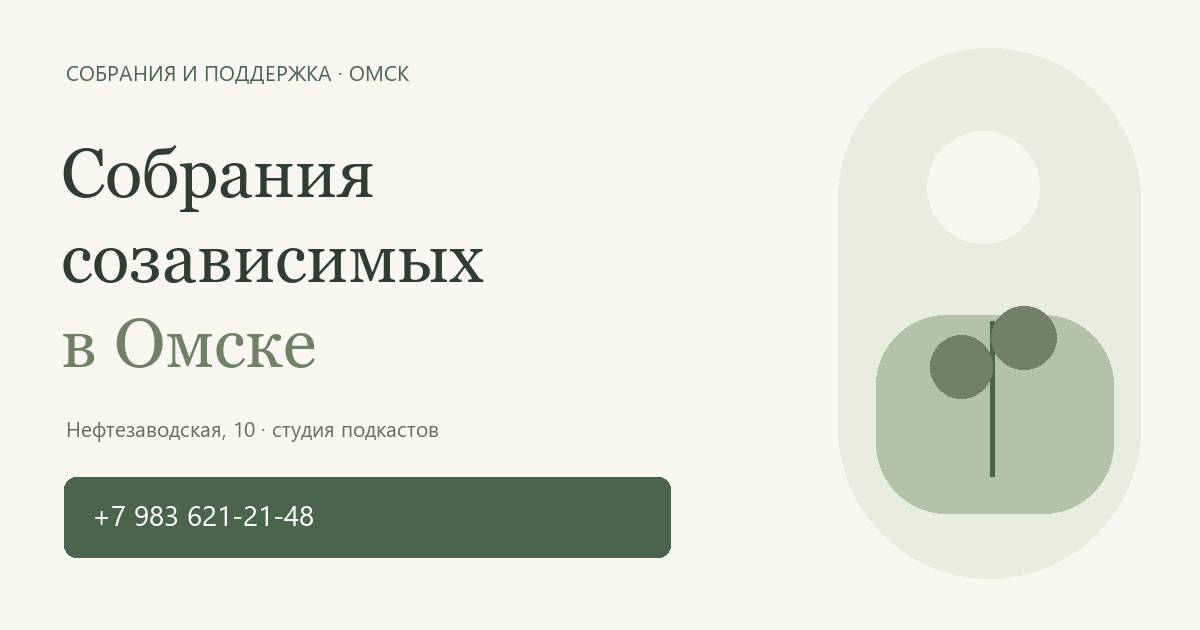
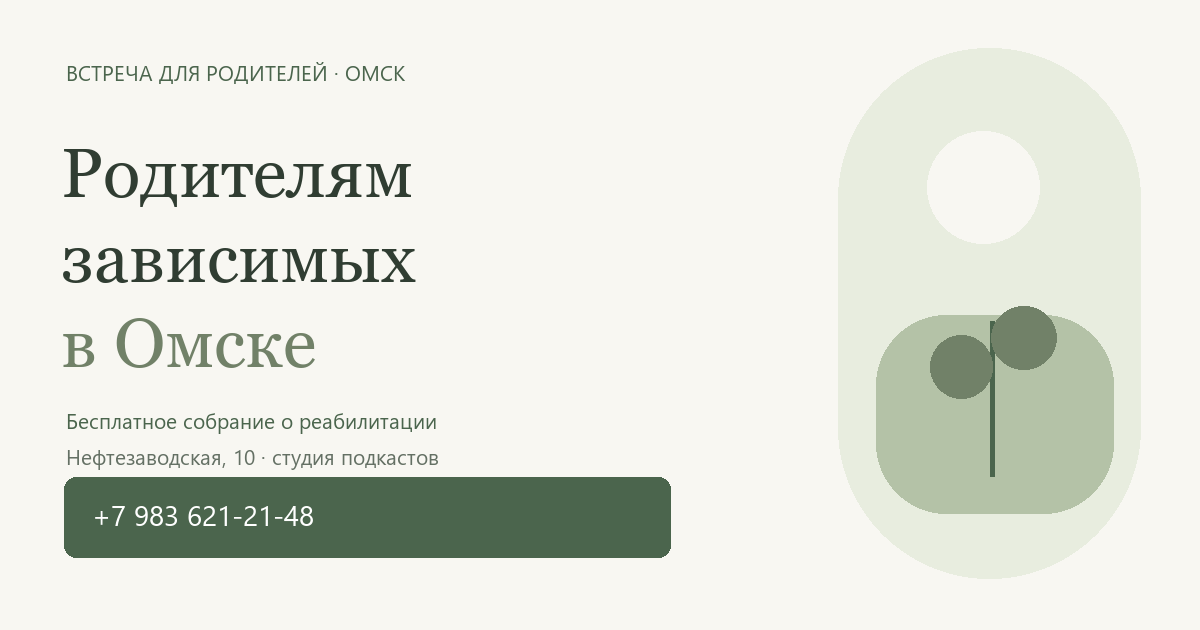
Align landing content and SEO with parents rehabilitation invitation

diff --git a/src/index.html b/src/index.html
@@ -4,23 +4,23 @@
   <meta charset="utf-8">
   <meta name="viewport" content="width=device-width, initial-scale=1">
   <meta name="theme-color" content="#f8f7f2">
-  <meta name="description" content="Собрания созависимых в Омске: ул. Нефтезаводская, 10, студия подкастов. Узнайте о группе и времени встречи по телефону +7 983 621-21-48.">
+  <meta name="description" content="Бесплатное собрание для родителей зависимых в Омске: вопросы реабилитации и поддержки близких. Нефтезаводская, 10. Дата и запись: +7 983 621-21-48.">
   <meta name="robots" content="index, follow">
   <meta name="referrer" content="strict-origin-when-cross-origin">
-  <title>Собрания созависимых в Омске — встречи и поддержка</title>
+  <title>Родителям зависимых в Омске — собрание о реабилитации</title>
   <link rel="canonical" href="%%SITE_URL%%">
   <link rel="icon" href="assets/favicon.svg" type="image/svg+xml">
   <link rel="stylesheet" href="assets/styles.css">
   <meta property="og:type" content="website">
   <meta property="og:locale" content="ru_RU">
-  <meta property="og:site_name" content="Созависимые · Омск">
-  <meta property="og:title" content="Собрания созависимых в Омске">
-  <meta property="og:description" content="Начните с одного разговора. Нефтезаводская, 10, студия подкастов. Связь: +7 983 621-21-48.">
+  <meta property="og:site_name" content="Поддержка близких · Омск">
+  <meta property="og:title" content="Бесплатное собрание для родителей зависимых в Омске">
+  <meta property="og:description" content="Приглашение Евгения Билинзона: выбор центра, качество реабилитации и вопросы родителей. Нефтезаводская, 10. Дата и запись: +7 983 621-21-48.">
   <meta property="og:url" content="%%SITE_URL%%">
   <meta property="og:image" content="%%SITE_URL%%assets/social.png">
   <meta property="og:image:width" content="1200">
   <meta property="og:image:height" content="630">
-  <meta property="og:image:alt" content="Собрания созависимых в Омске. Нефтезаводская, 10. Телефон +7 983 621-21-48.">
+  <meta property="og:image:alt" content="Собрание для родителей зависимых в Омске. Нефтезаводская, 10. Телефон +7 983 621-21-48.">
   <meta name="twitter:card" content="summary_large_image">
   %%STRUCTURED_DATA%%
 </head>
@@ -28,9 +28,9 @@
   <a class="skip-link" href="#main">Перейти к содержанию</a>
   <header class="header">
     <div class="container header-inner">
-      <a class="brand" href="#home" aria-label="Созависимые в Омске — начало страницы">
+      <a class="brand" href="#home" aria-label="Поддержка близких в Омске — начало страницы">
         <svg viewBox="0 0 40 40" width="40" height="40" fill="none" aria-hidden="true"><rect width="40" height="40" rx="14" fill="#e8eddf"/><path d="M20 30V17m0 7c-9 0-11-6-10-11 6 0 10 4 10 11Zm0-5c0-7 4-10 10-10 1 6-3 10-10 10Z" stroke="#4b654d" stroke-width="1.7" stroke-linecap="round" stroke-linejoin="round"/></svg>
-        <span>Созависимые<span class="brand-city">Омск · собрания и поддержка</span></span>
+        <span>Поддержка близких<span class="brand-city">Омск · встреча для родителей</span></span>
       </a>
       <nav aria-label="Основная навигация"><a href="#about">О встречах</a><a href="#invitation">Приглашение</a><a href="#contacts">Как прийти</a></nav>
       <a class="header-phone" href="tel:+79836212148"><svg class="icon" aria-hidden="true"><use href="#phone-icon"/></svg><span>+7 983 621-21-48</span></a>
@@ -39,29 +39,31 @@
   <main id="main">
     <section class="hero container" id="home" aria-labelledby="hero-title">
       <div class="hero-copy">
-        <p class="eyebrow"><span class="dot"></span> Группа поддержки · Омск</p>
-        <h1 id="hero-title">Собрания<br>созависимых<br><em>в Омске</em></h1>
-        <p class="hero-lead">Когда в отношениях трудно,<br class="desktop-break"> можно начать с поддержки.</p>
-        <p class="hero-description">Если вы ищете собрания созависимых в Омске, приглашаем узнать о встречах. Один звонок поможет уточнить формат и сделать первый шаг.</p>
-        <div class="hero-actions"><a class="button" href="tel:+79836212148"><svg class="icon" aria-hidden="true"><use href="#phone-icon"/></svg>Узнать о ближайшей встрече</a><a class="text-link" href="#about">Познакомиться с группой <span aria-hidden="true">↗</span></a></div>
+        <p class="eyebrow"><span class="dot"></span> Бесплатное собрание · Омск</p>
+        <h1 id="hero-title">Собрание для<br>родителей зависимых<br><em>в Омске</em></h1>
+        <p class="hero-lead">Близкий проходит реабилитацию?<br class="desktop-break"> Приходите со своими вопросами.</p>
+        <p class="hero-description">Евгений Билинзон приглашает родителей, чьи дети находятся в реабилитационном центре или только готовятся к этому шагу. Встреча о выборе центра, качестве реабилитации и вопросах семьи.</p>
+        <div class="hero-actions"><a class="button" href="tel:+79836212148"><svg class="icon" aria-hidden="true"><use href="#phone-icon"/></svg>Узнать дату и записаться</a><a class="text-link" href="#about">О чём будет встреча <span aria-hidden="true">↗</span></a></div>
         <p class="hero-location"><svg class="icon" aria-hidden="true"><use href="#pin-icon"/></svg>Нефтезаводская, 10 · студия подкастов</p>
       </div>
       <div class="hero-video video-card" id="invitation" role="region" aria-label="Видеоприглашение">
-        <p class="hero-video-heading">Место для нового начала</p>
+        <p class="hero-video-heading">Приглашение Евгения Билинзона</p>
         %%VIDEO_BLOCK%%
       </div>
     </section>
-    <div class="intro-strip"><div class="container"><span>Не обязательно сразу находить все ответы.</span><span>Можно начать с одного разговора. <span aria-hidden="true">✳</span></span></div></div>
+    <div class="intro-strip"><div class="container"><span>Реабилитация касается всей семьи. У вас тоже могут быть вопросы.</span><span>Участие в собрании бесплатно. <span aria-hidden="true">✳</span></span></div></div>
     <section class="section container about" id="about" aria-labelledby="about-title">
-      <div class="section-intro"><p class="eyebrow">01 / О встречах</p><h2 id="about-title">Поддержка начинается<br><em>с понимания</em></h2><p>Группа взаимопомощи — возможность встретиться с людьми, которым знакомы сложности в отношениях, и услышать их опыт.</p></div>
-      <div class="about-content"><p class="large-copy">Вы тоже заслуживаете<br>внимания и заботы.</p><p>Когда мысли, чувства и решения постоянно связаны с другим человеком, бывает трудно замечать собственные потребности. Если тема созависимости вам близка, встреча с группой может стать поводом уделить время себе.</p><p>Собрания созависимых — пространство для обмена личным опытом. Формат конкретной встречи и правила участия можно уточнить заранее по телефону.</p><div class="soft-note"><span aria-hidden="true">↗</span><p>Не нужно подбирать «правильные» слова.<br>Можно просто спросить: «Как прийти на собрание?»</p></div></div>
+      <div class="section-intro"><p class="eyebrow">01 / О собрании</p><h2 id="about-title">Вопросы о реабилитации.<br><em>Ответы для родителей.</em></h2><p>Бесплатная встреча в Омске для родителей, которым важно разобраться, что происходит в реабилитационном центре и на что обращать внимание.</p></div>
+      <div class="about-content"><p class="large-copy">Встреча с<br>Евгением Билинзоном</p><p>В видеоприглашении Евгений Билинзон объявляет собрание для родителей, чьи дети уже проходят реабилитацию, а также для тех, кто только рассматривает обращение в центр. Он предлагает обсудить вопросы реабилитационного процесса, качества работы центра и его внутренних услуг.</p><p>Это возможность прийти с конкретными вопросами о ситуации вашей семьи. Если вы хотите поговорить о помощи другим близким, заранее уточните, подходит ли вам формат собрания.</p><div class="soft-note"><span aria-hidden="true">↗</span><p>Точная дата и время — по телефону.<br>В ролике нет календарной даты, поэтому перед визитом обязательно свяжитесь с нами.</p></div></div>
     </section>
-    <section class="recognition section" aria-labelledby="recognition-title"><div class="container"><div class="recognition-heading"><div><p class="eyebrow">Если это откликается</p><h2 id="recognition-title">Когда хочется<br><em>найти опору</em></h2></div><p>Возможно, вы узнаете себя<br>в одном из этих переживаний.</p></div><div class="recognition-grid"><article><span class="card-number">01</span><h3>Чужие чувства важнее своих</h3><p>Вы много думаете о состоянии близкого человека, а собственные желания откладываете на потом.</p></article><article><span class="card-number">02</span><h3>Трудно говорить «нет»</h3><p>Соглашаетесь, даже когда не хотите, или чувствуете вину, когда выбираете себя.</p></article><article><span class="card-number">03</span><h3>Отношения забирают силы</h3><p>Тревога, попытки всё контролировать и страх потерять связь оставляют мало места для вашей жизни.</p></article></div><p class="recognition-note">Это примеры переживаний, а не тест и не диагноз. Вам не нужно ставить себе определение, чтобы узнать о встрече.</p></div></section>
-    <section class="section container meeting" id="contacts" aria-labelledby="meeting-title"><div class="meeting-heading"><p class="eyebrow">02 / Как прийти</p><h2 id="meeting-title">Встретимся<br><em>в Омске</em></h2><p>Свяжитесь по телефону перед первым визитом: уточните время собрания и как найти вход.</p></div><div class="meeting-card"><span class="location-badge"><svg class="icon" aria-hidden="true"><use href="#pin-icon"/></svg>Место встречи</span><h3>Нефтезаводская, 10</h3><p class="venue">Омск · студия подкастов</p><a class="text-link map-link" href="https://yandex.ru/maps/?text=%D0%9E%D0%BC%D1%81%D0%BA%2C%20%D0%9D%D0%B5%D1%84%D1%82%D0%B5%D0%B7%D0%B0%D0%B2%D0%BE%D0%B4%D1%81%D0%BA%D0%B0%D1%8F%2C%2010" target="_blank" rel="noopener noreferrer">Посмотреть адрес на карте <span aria-hidden="true">↗</span></a><div class="meeting-divider"></div><p class="meeting-label">Время собрания уточняйте по телефону</p><a class="big-phone" href="tel:+79836212148">+7 983 621-21-48</a><a class="button" href="tel:+79836212148"><svg class="icon" aria-hidden="true"><use href="#phone-icon"/></svg>Позвонить и узнать подробности</a></div></section>
-    <section class="section container faq" id="questions" aria-labelledby="faq-title"><div><p class="eyebrow">Перед первой встречей</p><h2 id="faq-title">Можно<br><em>спросить</em></h2></div><div class="faq-list"><details><summary>Где проходят собрания созависимых в Омске?</summary><p>Место встречи: Омск, ул. Нефтезаводская, 10, студия подкастов. Перед визитом позвоните по номеру +7 983 621-21-48, чтобы уточнить время и вход.</p></details><details><summary>Как узнать расписание и условия участия?</summary><p>Свяжитесь по телефону +7 983 621-21-48. Вам подскажут время ближайшего собрания, формат встречи и условия участия.</p></details><details><summary>Что делать, если я прихожу впервые?</summary><p>Начните со звонка. Расскажите, что хотите прийти в первый раз, и задайте вопросы о встрече. Необязательно подробно описывать свою ситуацию по телефону.</p></details><details><summary>Это психологическая консультация?</summary><p>Собрание группы взаимопомощи посвящено обмену личным опытом. Оно не заменяет индивидуальную помощь психолога, психотерапевта или врача.</p></details></div></section>
-    <section class="closing"><div class="container"><span class="closing-flower" aria-hidden="true">✳</span><h2>Начните с одного разговора.</h2><p>Узнайте о ближайшей встрече. Мы рядом — в Омске.</p><a href="tel:+79836212148">+7 983 621-21-48 <span aria-hidden="true">↗</span></a></div></section>
+    <section class="recognition section" aria-labelledby="recognition-title"><div class="container"><div class="recognition-heading"><div><p class="eyebrow">Кому адресовано приглашение</p><h2 id="recognition-title">Когда ребёнок<br><em>нуждается в реабилитации</em></h2></div><p>Для родителей, которые хотят<br>лучше понять следующий шаг.</p></div><div class="recognition-grid"><article><span class="card-number">01</span><h3>Сын или дочь уже в центре</h3><p>Хотите понять содержание программы, условия пребывания и то, как выстроено взаимодействие с родителями.</p></article><article><span class="card-number">02</span><h3>Реабилитация ещё впереди</h3><p>Рассматриваете реабилитационный центр и собираете вопросы о его работе, услугах и подходе к семье.</p></article><article><span class="card-number">03</span><h3>Остались вопросы к процессу</h3><p>Нужна ясность о качестве реабилитации: что именно входит в программу и какую информацию можно запросить у центра.</p></article></div><p class="recognition-note">В приглашении речь идёт о собрании родителей. Возможность участия супругов, других родственников и близких уточняйте по телефону.</p></div></section>
+    <section class="section container topics" id="topics" aria-labelledby="topics-title"><p class="eyebrow">02 / С чем можно прийти</p><h2 id="topics-title">Реабилитационный центр:<br><em>что важно спросить</em></h2><p class="topics-lead">В видео названы вопросы качества реабилитации и внутренних услуг центра. Ниже — примеры вопросов, которые помогут подготовиться к разговору.</p><div class="topics-grid"><article><h3>Как выбрать реабилитационный центр?</h3><p>Какая программа используется, как устроено пребывание и какую информацию родители могут получить до обращения?</p></article><article><h3>Как оценить качество реабилитации?</h3><p>Как центр объясняет содержание программы, её этапы и взаимодействие с семьёй? Что можно узнать о работе специалистов?</p></article><article><h3>Что входит в услуги центра?</h3><p>Какие занятия и мероприятия предусмотрены, как организовано сопровождение и какие условия нужно уточнить заранее?</p></article><article><h3>Как поддерживать связь с близким?</h3><p>Каковы правила контакта во время реабилитации и каким образом родители могут обсуждать вопросы с сотрудниками?</p></article><article><h3>Что спросить перед реабилитацией?</h3><p>Как проходит обращение, что требуется от семьи и какие вопросы стоит записать до разговора с центром?</p></article><article><h3>Как обсуждать свои сомнения?</h3><p>Что именно вам непонятно или вызывает тревогу? Подготовьте вопросы о конкретных условиях и ситуации вашей семьи.</p></article></div><p class="topics-note">Это ориентиры для вопросов, а не индивидуальные медицинские рекомендации. Уточните по телефону, какие темы можно обсудить на встрече.</p></section>
+    <section class="family-section section" id="family-support" aria-labelledby="family-title"><div class="container about"><div class="section-intro"><p class="eyebrow">Поддержка семьи</p><h2 id="family-title">Созависимость:<br><em>поддержка близких в Омске</em></h2><p>Если вы ищете поддержку родственникам зависимых в Омске, начать можно с разговора о формате встречи и ваших вопросах.</p></div><div class="about-content"><p class="large-copy">У близких тоже есть<br>свои чувства и потребности.</p><p>Родственники людей с алкогольной или наркотической зависимостью могут искать информацию о реабилитации, общении с близким и созависимости. На этой странице — приглашение на собрание родителей о реабилитации; возможность обсуждения вашей ситуации уточняется заранее.</p><p>Если вы ищете собрания созависимых в Омске или регулярную группу поддержки для родственников, уточните по телефону, подойдёт ли вам эта встреча. Регулярность собраний и возможность обсуждения созависимости уточняются отдельно.</p><div class="soft-note"><span aria-hidden="true">↗</span><p>Можно спросить: «Я ищу поддержку для близких.<br>Подойдёт ли мне это собрание?»</p></div></div></div></section>
+    <section class="section container meeting" id="contacts" aria-labelledby="meeting-title"><div class="meeting-heading"><p class="eyebrow">03 / Дата и место</p><h2 id="meeting-title">Бесплатная встреча<br><em>в Омске</em></h2><p>Место собрания указано в видеоприглашении: студия подкастов на Нефтезаводской, 10. Для записи и уточнения актуальной даты позвоните перед визитом.</p></div><div class="meeting-card"><span class="location-badge"><svg class="icon" aria-hidden="true"><use href="#pin-icon"/></svg>Место встречи</span><h3>Нефтезаводская, 10</h3><p class="venue">Омск · студия подкастов</p><a class="text-link map-link" href="https://yandex.ru/maps/?text=%D0%9E%D0%BC%D1%81%D0%BA%2C%20%D0%9D%D0%B5%D1%84%D1%82%D0%B5%D0%B7%D0%B0%D0%B2%D0%BE%D0%B4%D1%81%D0%BA%D0%B0%D1%8F%2C%2010" target="_blank" rel="noopener noreferrer">Посмотреть адрес на карте <span aria-hidden="true">↗</span></a><div class="meeting-divider"></div><p class="meeting-label">Дата, время и запись на собрание</p><a class="big-phone" href="tel:+79836212148">+7 983 621-21-48</a><a class="button" href="tel:+79836212148"><svg class="icon" aria-hidden="true"><use href="#phone-icon"/></svg>Позвонить и узнать подробности</a></div></section>
+    <section class="section container faq" id="questions" aria-labelledby="faq-title"><div><p class="eyebrow">Перед встречей</p><h2 id="faq-title">Вопросы<br><em>родителей и близких</em></h2></div><div class="faq-list"><details><summary>Для кого это собрание в Омске?</summary><p>В видеоприглашении Евгений Билинзон обращается к родителям, чьи дети уже находятся на реабилитации или только готовятся к обращению в реабилитационный центр.</p></details><details><summary>Можно прийти, если сын или дочь ещё не в центре?</summary><p>Да, в приглашении отдельно упомянуты родители, чьи дети только на пути в реабилитационный центр. Перед визитом уточните дату и формат по телефону +7 983 621-21-48.</p></details><details><summary>Встреча для родителей зависимых бесплатная?</summary><p>Да, в видео прямо сказано, что участие в собрании бесплатно. Это относится к встрече родителей, а не к стоимости реабилитации или лечения.</p></details><details><summary>Как узнать дату, время и записаться?</summary><p>Позвоните по номеру +7 983 621-21-48. В видеоприглашении нет точной календарной даты: актуальное время собрания и возможность участия нужно подтвердить по телефону.</p></details><details><summary>Где проходит собрание?</summary><p>Омск, ул. Нефтезаводская, 10, студия подкастов. Перед визитом уточните по телефону +7 983 621-21-48, как найти вход.</p></details><details><summary>Можно задать вопросы о выборе реабилитационного центра?</summary><p>В видео заявлены ответы на вопросы о реабилитационном процессе, качестве центра и его внутренних услуг. Вы можете подготовить свои вопросы о выборе центра и заранее уточнить возможность их обсуждения.</p></details><details><summary>Подойдёт ли встреча родственникам при алкогольной или наркотической зависимости?</summary><p>Приглашение адресовано родителям детей на реабилитации или на пути в центр. Конкретную ситуацию, вид зависимости и участие других родственников уточняйте по телефону +7 983 621-21-48.</p></details><details><summary>Это группа созависимых, CoDA или Ал-Анон?</summary><p>На этой странице размещено приглашение на конкретное собрание родителей о реабилитации. Принадлежность встречи к CoDA, Ал-Анон или другой программе не подтверждена. Если вы ищете регулярные собрания созависимых в Омске, уточните подходящий формат по телефону.</p></details><details><summary>Это лечение зависимости или консультация врача?</summary><p>Нет, на сайте предлагается встреча для вопросов родителей о реабилитации. Она не заменяет медицинскую диагностику, лечение зависимости или индивидуальную помощь специалиста.</p></details></div></section>
+    <section class="closing"><div class="container"><span class="closing-flower" aria-hidden="true">✳</span><h2>Приходите со своими вопросами.</h2><p>Уточните дату бесплатного собрания родителей в Омске.</p><a href="tel:+79836212148">+7 983 621-21-48 <span aria-hidden="true">↗</span></a></div></section>
   </main>
-  <footer class="container footer"><p>Созависимые · Омск</p><p>Нефтезаводская, 10 · студия подкастов</p><a href="#home">Наверх ↑</a></footer>
+  <footer class="container footer"><p>Поддержка близких · Омск</p><p>Нефтезаводская, 10 · студия подкастов</p><a href="#home">Наверх ↑</a></footer>
   <a class="floating-phone" href="tel:+79836212148" aria-label="Позвонить о собрании: +7 983 621-21-48"><svg class="icon" aria-hidden="true"><use href="#phone-icon"/></svg><span><small>Связаться по телефону</small>+7 983 621-21-48</span></a>
   <svg class="svg-defs" xmlns="http://www.w3.org/2000/svg" aria-hidden="true"><symbol id="phone-icon" viewBox="0 0 24 24"><path d="m8 3 3 5-2.4 2.4a15 15 0 0 0 5 5L16 13l5 3v3a2 2 0 0 1-2.3 2A19 19 0 0 1 3 5.3 2 2 0 0 1 5 3Z" fill="none" stroke="currentColor" stroke-width="1.6" stroke-linejoin="round"/></symbol><symbol id="pin-icon" viewBox="0 0 24 24"><path d="M19 10c0 5-7 11-7 11S5 15 5 10a7 7 0 1 1 14 0Z" fill="none" stroke="currentColor" stroke-width="1.6"/><circle cx="12" cy="10" r="2.3" fill="none" stroke="currentColor" stroke-width="1.6"/></symbol></svg>
 </body>

diff --git a/src/assets/styles.css b/src/assets/styles.css
@@ -7,4 +7,7 @@
 @media(max-width:820px){nav{display:none}.hero{gap:25px;padding-block:52px}.hero-art{min-height:450px}.art-label{font-size:8px}.art-caption p{font-size:13px}.art-note{right:-7px;font-size:16px}.hero-lead{font-size:18px}.hero-description{font-size:14px}h1{font-size:53px}h2{font-size:41px}.section{padding-block:70px}.about,.invitation,.meeting{gap:35px}.recognition-heading>p{margin-right:0}.recognition-grid{gap:13px}.recognition-grid article{padding:20px}.recognition-grid h3{font-size:16px}.recognition-grid p{font-size:13px}.meeting-card h3{font-size:28px}.big-phone{font-size:25px}.faq{gap:40px}.intro-strip .container{font-size:12px}.intro-strip span span{margin-left:8px}}
 @media(max-width:640px){html{scroll-padding-top:90px}.container{width:calc(100% - 40px)}.header-inner{min-height:77px;gap:10px}.brand{font-size:15px;gap:9px}.brand svg{width:34px;height:34px}.brand-city{font-size:9px}.header-phone{gap:6px;font-size:11px}.header-phone .icon{width:16px;height:16px}.hero{grid-template-columns:1fr;gap:34px;padding-block:40px}.eyebrow{font-size:10px;margin-bottom:22px}h1{font-size:clamp(45px,12vw,66px);line-height:1.06;letter-spacing:-.045em}h2{font-size:39px}.hero-lead{font-size:19px}.hero-description{font-size:15px;max-width:none}.hero-actions{align-items:flex-start;gap:15px}.hero-actions .button{width:100%;font-size:14px}.hero-actions .text-link{min-height:44px}.hero-location{font-size:11px;margin-top:17px}.hero-art{min-height:0;max-width:390px;width:100%;justify-self:center;border-radius:130px 130px 16px 16px}.art-label{margin-top:26px;font-size:9px}.garden{max-height:330px}.art-caption{margin-bottom:28px}.art-note{right:-6px;bottom:70px}.intro-strip .container{flex-direction:column;align-items:flex-start;gap:4px;padding-block:20px;font-size:12px}.intro-strip span span{margin-left:12px}.section{padding-block:55px}.about,.invitation,.meeting,.faq{grid-template-columns:1fr;gap:25px}.section-intro>p:last-child,.meeting-heading>p:last-child,.invitation-copy>p:not(.eyebrow){max-width:none;margin-bottom:0}.about-content{padding-top:0}.large-copy{font-size:28px}.recognition-heading{display:block;margin-bottom:25px}.recognition-heading>p{margin-top:18px;font-size:14px}.recognition-grid{grid-template-columns:1fr;gap:13px}.recognition-grid article{padding:23px;display:grid;grid-template-columns:40px 1fr;column-gap:16px}.card-number{grid-row:1/3;font-size:25px;margin:0}.recognition-grid h3{font-size:17px;margin-bottom:8px}.recognition-grid p{font-size:14px}.recognition-note{font-size:12px}.invitation-copy .text-link{margin-top:18px;min-height:44px}.video-fallback{min-height:285px;padding:24px}.meeting-card{padding:28px 23px}.meeting-card h3{font-size:30px}.big-phone{font-size:28px}.faq h2{margin-bottom:0}summary{font-size:14px;padding-block:22px}details p{padding-right:10px}.closing{padding-block:45px}.closing h2{font-size:35px}.closing p{font-size:13px}.closing a{font-size:25px}.footer{align-items:flex-start;flex-wrap:wrap;padding-block:25px 110px;gap:10px}.footer p:nth-child(2){order:3;width:100%}.floating-phone{bottom:12px;right:12px;left:12px;justify-content:center;border-radius:10px;padding:12px;gap:14px;font-size:19px;padding-bottom:calc(12px + env(safe-area-inset-bottom))}.floating-phone small{font-size:10px}.floating-phone .icon{width:24px;height:24px}}
 @media(max-width:360px){.container{width:calc(100% - 32px)}.brand{font-size:13px}.brand-city{font-size:8px}.header-phone{font-size:10px}.brand svg{width:29px;height:29px}.header-phone .icon{display:none}.hero-location{font-size:10px}.button{padding-inline:16px}.big-phone{font-size:25px}}
+.hero h1{font-size:clamp(46px,4.9vw,67px)}.topics{border-bottom:1px solid var(--line)}.topics-lead{max-width:700px;color:var(--muted);font-size:15px;margin-bottom:30px}.topics-grid{display:grid;grid-template-columns:repeat(3,1fr);gap:20px}.topics-grid article{border-top:1px solid var(--line);padding-top:24px}.topics-grid h3{font-family:var(--serif);font-weight:400;font-size:24px;line-height:1.35}.topics-grid p{font-size:14px;color:var(--muted);line-height:1.8}.topics-note{font-size:12px;color:var(--muted);margin:25px 0 0}.family-section{background:#eeeee5}.family-section .about{padding-block:0}.family-section .soft-note{background:#e2e7d8}
+@media(max-width:820px){.topics-grid{grid-template-columns:repeat(2,1fr)}}
+@media(max-width:640px){.hero h1{font-size:clamp(41px,10.8vw,61px)}.topics h2{font-size:clamp(30px,9.5vw,39px)}.topics-grid{grid-template-columns:1fr;gap:10px}.topics-grid h3{font-size:23px}}
 @media(prefers-reduced-motion:reduce){html{scroll-behavior:auto}*{transition:none!important}}

diff --git a/src/video.html b/src/video.html
@@ -1,6 +1,6 @@
-<video class="invitation-video" controls playsinline preload="metadata" poster="assets/invitation-poster.jpg" width="720" height="1280" aria-label="Видеоприглашение на собрание созависимых в Омске" aria-describedby="video-description">
+<video class="invitation-video" controls playsinline preload="metadata" poster="assets/invitation-poster.jpg" width="720" height="1280" aria-label="Евгений Билинзон: приглашение на собрание родителей о реабилитации в Омске" aria-describedby="video-description">
   <source src="assets/invitation.mp4" type="video/mp4">
   Ваш браузер не поддерживает встроенный плеер. <a href="assets/invitation.mp4">Открыть видеоприглашение</a>.
 </video>
-<p class="video-note" id="video-description">Приглашение на встречу · 45 секунд. Время собрания уточняйте по телефону <a href="tel:+79836212148">+7 983 621-21-48</a>.</p>
+<p class="video-note" id="video-description">Родителям о реабилитации · 45 секунд. Участие бесплатно. Дата и запись: <a href="tel:+79836212148">+7 983 621-21-48</a>.</p>
 <p class="video-note video-source"><a href="https://vk.ru/story-48919992_456239127" target="_blank" rel="noopener noreferrer">Оригинал в VK ↗</a><a href="assets/invitation.mp4">Открыть видео отдельно ↗</a></p>

diff --git a/scripts/social-image.py b/scripts/social-image.py
@@ -15,11 +15,12 @@ draw.rounded_rectangle((876, 315, 1113, 513), radius=70, fill='#b4c2a7')
 draw.line((992, 476, 992, 321), fill='#4b654d', width=5)
 draw.ellipse((930, 335, 992, 398), fill='#718168')
 draw.ellipse((991, 306, 1056, 369), fill='#718168')
-draw.text((66, 58), 'СОБРАНИЯ И ПОДДЕРЖКА · ОМСК', font=small, fill='#4b654d')
-draw.text((61, 133), 'Собрания', font=serif, fill='#303d32')
-draw.text((61, 218), 'созависимых', font=serif, fill='#303d32')
+draw.text((66, 58), 'ВСТРЕЧА ДЛЯ РОДИТЕЛЕЙ · ОМСК', font=small, fill='#4b654d')
+draw.text((61, 133), 'Родителям', font=serif, fill='#303d32')
+draw.text((61, 218), 'зависимых', font=serif, fill='#303d32')
 draw.text((61, 303), 'в Омске', font=serif, fill='#718168')
-draw.text((66, 414), 'Нефтезаводская, 10 · студия подкастов', font=small, fill='#647064')
+draw.text((66, 406), 'Бесплатное собрание о реабилитации', font=small, fill='#4b654d')
+draw.text((66, 442), 'Нефтезаводская, 10 · студия подкастов', font=small, fill='#647064')
 draw.rounded_rectangle((64, 477, 670, 557), radius=12, fill='#4b654d')
 draw.text((92, 495), '+7 983 621-21-48', font=sans, fill='#ffffff')
 image.save(ROOT / 'src/assets/social.png', optimize=True)

diff --git a/docs/seo-map.md b/docs/seo-map.md
@@ -1,0 +1,47 @@
+# Темы, запросы и проверенные границы
+
+Дата проверки: 13 октября 2026 года. Цель страницы — звонок и уточнение участия в бесплатном собрании родителей в Омске. Поисковые поверхности: Яндекс и Google. Основной источник содержания — предоставленное пользователем видео `src/assets/invitation.mp4`, сверенное по распознанной речи и титрам. Адрес и телефон также подтверждены пользователем.
+
+## Что подтверждено источником
+
+- Евгений Билинзон приглашает на собрание родителей. Имя видно в подписи ролика; приглашение получено из его страницы VK.
+- Аудитория: родители детей, находящихся на реабилитации, и родители тех, кто только на пути в реабилитационный центр.
+- Темы: реабилитационный процесс, качество реабилитационного центра, качество и содержание его внутренних услуг, вопросы родителей.
+- Участие в этом собрании бесплатно. Это не обещание бесплатного лечения или реабилитации.
+- Место: Омск, Нефтезаводская, 10, студия подкастов. Контакт: +7 983 621-21-48.
+- В ролике есть относительное «через неделю», но нет календарной даты. Сайт направляет подтвердить актуальную дату по телефону. Расписание и Event-разметка не выдуманы.
+
+Слова «19 лет профессиональной работы» в ролике — заявление самого спикера, а не проверенная квалификация или лицензия; на странице не используются для обещаний качества.
+
+## Карта поисковых намерений
+
+Ниже — кандидаты запросов, а не измеренная частотность. Основные темы взяты из видео; дополнительные формулировки — редакционные гипотезы. Нет доступа к данным Wordstat, Search Console или Яндекс Вебмастера. Не заявлены позиции, спрос или прогноз посещаемости.
+
+| Намерение | Примеры запросов | Канонический раздел | Граница ответа |
+|---|---|---|---|
+| Найти встречу родителей | собрание родителей зависимых Омск; встреча родителей наркозависимых Омск; собрание для родителей о реабилитации; бесплатное собрание родителей Омск | Первый экран, `#about` | Встреча объявлена в видео, дата по телефону; вид зависимости уточняется |
+| Ребёнок уже в центре | ребёнок на реабилитации помощь родителям; сын в реабилитационном центре; дочь на реабилитации; поддержка родителей во время реабилитации | Раздел «Кому адресовано приглашение» | Обсуждение вопросов семьи, не оценка состояния ребёнка |
+| Реабилитация ещё впереди | вопросы перед реабилитацией; помощь родителям перед реабилитацией; как подготовиться к разговору с реабилитационным центром | `#topics`, FAQ | Вопросы для беседы, не инструкция по лечению или принудительному помещению |
+| Выбрать центр | как выбрать реабилитационный центр Омск; вопросы реабилитационному центру; выбор центра для близкого | `#topics` | Темы для вопросов; нет рейтинга, рекомендаций конкретного центра или гарантий |
+| Разобраться в качестве | качество реабилитации; качество реабилитационного центра; программа реабилитации вопросы; что входит в услуги центра | `#topics` | Соответствует заявленным темам ролика; примеры вопросов обозначены как примеры |
+| Взаимодействовать с центром | общение родителей с реабилитационным центром; связь с ребёнком на реабилитации; вопросы сотрудникам центра | `#topics` | Правила конкретного центра уточняются, общие правила не выдуманы |
+| Поддержка родственников | помощь родственникам зависимых Омск; поддержка близких зависимых; помощь родителям зависимого; поддержка семьи при зависимости | `#family-support` | Основная аудитория — родители; участие других близких по телефону |
+| Алкогольная зависимость в семье | помощь родственникам алкоголиков Омск; поддержка родителей при алкогольной зависимости; группа поддержки близких алкоголиков | `#family-support`, FAQ | Объясняется возможность уточнить формат, без обещания лечения или профильной программы |
+| Наркотическая зависимость в семье | помощь родственникам наркозависимых Омск; поддержка родителей наркозависимых; вопросы семьи перед реабилитацией от наркотиков | `#family-support`, FAQ | Вид зависимости и соответствие встречи ситуации нужно подтвердить |
+| Созависимость | созависимость Омск; созависимые Омск; собрания созависимых Омск; группа поддержки родственников зависимых | `#family-support`, FAQ | Встреча о реабилитации не выдаётся за подтверждённую регулярную CoDA/Ал-Анон |
+| Найти автора приглашения | Евгений Билинзон Омск; Евгений Билинзон реабилитация; встреча с Евгением Билинзоном | Первый экран, `#about` | Имя по подписи ролика; квалификации и клинические услуги не заявлены |
+| Адрес, дата и стоимость | собрание Нефтезаводская 10; студия подкастов Омск собрание родителей; когда собрание родителей; бесплатная встреча по реабилитации | `#contacts`, FAQ | Адрес, бесплатность и телефон подтверждены; дату нужно уточнять |
+
+Для близких запросов используется одна страница с содержательными разделами. Не создаются страницы под перестановки слов, скрытые списки ключей, фиктивные отзывы, рейтинги центров или обещания излечения. `meta keywords` не добавлен.
+
+## Внедрённые настройки
+
+Title, description, H1/H2, Open Graph, PNG-карточка и текст совпадают по основной теме. Один H1, доступный локальный MP4 с обложкой, естественные внутренние ссылки, HTTPS-canonical. JSON-LD содержит WebPage, FAQPage, Place и VideoObject; ответы FAQ генерируются из видимого текста. Organization прежней неподтверждённой группы удалён. В sitemap добавлены название, описание, обложка и адрес видео.
+
+`VideoObject.uploadDate=2026-10-13T14:02:11Z` — время завершения первого deploy с копией MP4 на этом сайте (GitHub Actions run 38409729595), а не вычисленная дата события или заявленная исходная дата публикации VK. Наличие VideoObject и video sitemap не подтверждает индексацию видео или право на расширенный результат: лендинг с дополнительным видео может не соответствовать критериям отдельной watch page Google.
+
+## Как измерять результат
+
+После подтверждения владения добавить сайт в Яндекс Вебмастер и Google Search Console, отправить sitemap и проверять индексирование URL. Сравнивать показы, клики, реальные формулировки запросов и обращения по телефону. Начальная контрольная группа — намерения из таблицы. Новые тексты добавлять по реальным вопросам родителей и данным поиска, сохраняя проверенные границы. Обновлять дату только после подтверждения организатора; при завершении мероприятия менять призыв и содержание, а не поддерживать обещание будущей встречи.
+
+Источники рекомендаций: [Google SEO Starter Guide](https://developers.google.com/search/docs/fundamentals/seo-starter-guide), [Google Video SEO](https://developers.google.com/search/docs/appearance/video), [Яндекс: заголовок и описание](https://yandex.ru/support/webmaster/ru/search-results/title-and-description). Проверены 13 октября 2026 года.

diff --git a/README.md b/README.md
@@ -1,8 +1,10 @@
-# Собрания созависимых в Омске
+# Собрание родителей зависимых в Омске
 
-Готовый статический лендинг на русском языке: светлое оформление, адаптивная вёрстка, телефон в шапке и закреплённая кнопка звонка, адрес встречи и ссылка на карту. Основное содержимое и FAQ работают без JavaScript. Нет внешних шрифтов, аналитики, форм и зависимостей npm.
+Статический лендинг бесплатного собрания родителей о реабилитации в Омске. Содержание основано на видеоприглашении Евгения Билинзона: родители детей на реабилитации или на пути в центр, программы и качество реабилитации, внутренние услуги центра. Дополнительный раздел помогает родственникам с запросами о поддержке и созависимости уточнить, подходит ли им встреча.
 
-Контакт: **+7 983 621-21-48**. Место: **Омск, ул. Нефтезаводская, 10, студия подкастов**. Время, формат и условия участия уточняются по телефону. Название конкретной группы, расписание, стоимость и принадлежность к CoDA не заявлены без подтверждения организатора.
+Светлое оформление, адаптивная вёрстка, видео в первом экране, телефон в шапке и закреплённая кнопка звонка, адрес и карта. Содержимое и FAQ работают без JavaScript. Нет внешних шрифтов, аналитики, форм и зависимостей npm.
+
+Контакт: **+7 983 621-21-48**. Место: **Омск, ул. Нефтезаводская, 10, студия подкастов**. Бесплатность собрания подтверждена видео; она не относится к лечению и реабилитации. Календарная дата, время, запись, участие других близких и регулярность встреч уточняются по телефону. Принадлежность к CoDA/Ал-Анон, клинические услуги, лицензии и гарантии результатов не заявлены. Относительное «через неделю» из видео не превращается в вычисленное расписание.
 
 ## Локальный запуск
 
@@ -24,7 +26,7 @@ Workflow `.github/workflows/pages.yml` собирает и проверяет с
 
 ## Редактирование
 
-- Текст и контакты: `src/index.html`; контакт и адрес в структурированных данных: `scripts/build.mjs`.
+- Текст, контакты и FAQ: `src/index.html`; адрес, темы и данные видео: `scripts/build.mjs`. Title/description в JSON-LD берутся из HTML.
 - Оформление: `src/assets/styles.css`.
 - Приглашение: `src/video.html`. Видео из предоставленной истории https://vk.ru/story-48919992_456239127 сохранено с разрешения пользователя 13 октября 2026 года в `src/assets/invitation.mp4`; обложка — `src/assets/invitation-poster.jpg`. Плеер воспроизводит локальный MP4 без входа в VK, не зависит от срока жизни истории и использует `preload="metadata"` для предварительной загрузки метаданных без автоматического воспроизведения. Ссылка на оригинал оставлена под видео.
 - Видео содержит полный ролик длительностью около 45,1 секунды без монтажных сокращений: H.264, 720×1280, 30 fps, yuv420p; звук AAC, 96 кбит/с. MP4 подготовлен с `faststart`. Исходный файл сохранён отдельно; учётные данные и временные URL VK не входят в репозиторий. Для замены обновите MP4 и обложку, затем проверьте воспроизведение и звук.
@@ -32,10 +34,12 @@ Workflow `.github/workflows/pages.yml` собирает и проверяет с
 
 ## Поисковая оптимизация
 
-Реализованы описательный title и description, один H1, естественные тексты о собраниях созависимых и созависимости в Омске, canonical, Open Graph с локальным PNG, JSON-LD Organization/WebPage/FAQPage, sitemap.xml, открытая индексация, доступная навигация и мобильная вёрстка. FAQ в JSON-LD формируется из видимого текста, чтобы ответы совпадали.
+Основная тема — бесплатное собрание родителей зависимых в Омске. Содержательные разделы раскрывают выбор и качество реабилитационного центра, вопросы его программ и услуг, подготовку к разговору, поддержку семьи и созависимость. Карта из 12 групп поисковых намерений и границы утверждений — в `docs/seo-map.md`; частотность и позиции не выдуманы.
+
+Реализованы title/description, один H1, естественные H2 и тексты, canonical, Open Graph с актуальным PNG, JSON-LD WebPage/FAQPage/Place/VideoObject, sitemap.xml с данными видео, открытая индексация, доступная навигация и мобильная вёрстка. FAQ формируется из видимого текста и проверяется на совпадение; Event не добавляется без точной даты. Дата uploadDate относится к публикации копии ролика на сайте.
 
 После запуска организатору следует добавить сайт в Яндекс Вебмастер и Google Search Console и отправить sitemap. Для GitHub Pages в подкаталоге файл `/soza/robots.txt` не заменяет корневой robots.txt всего домена; ограничения корневого домена контролирует хостинг. При переносе на собственный домен используйте файл из `dist/` в корне сайта.
 
 Реализованные SEO-настройки не означают, что сайт уже проиндексирован или занимает позиции. Адрес и расписание нужно поддерживать актуальными; даты собраний не добавлять в Event-разметку до подтверждения.
 
-Первоисточники: [Google SEO Starter Guide](https://developers.google.com/search/docs/fundamentals/seo-starter-guide), [GitHub Pages: custom workflows](https://docs.github.com/en/pages/getting-started-with-github-pages/using-custom-workflows-with-github-pages). Проверены 13 октября 2026 года.
+Первоисточники: [Google SEO Starter Guide](https://developers.google.com/search/docs/fundamentals/seo-starter-guide), [Google Video SEO](https://developers.google.com/search/docs/appearance/video), [Яндекс: заголовок и описание](https://yandex.ru/support/webmaster/ru/search-results/title-and-description), [GitHub Pages: custom workflows](https://docs.github.com/en/pages/getting-started-with-github-pages/using-custom-workflows-with-github-pages). Проверены 13 октября 2026 года.
